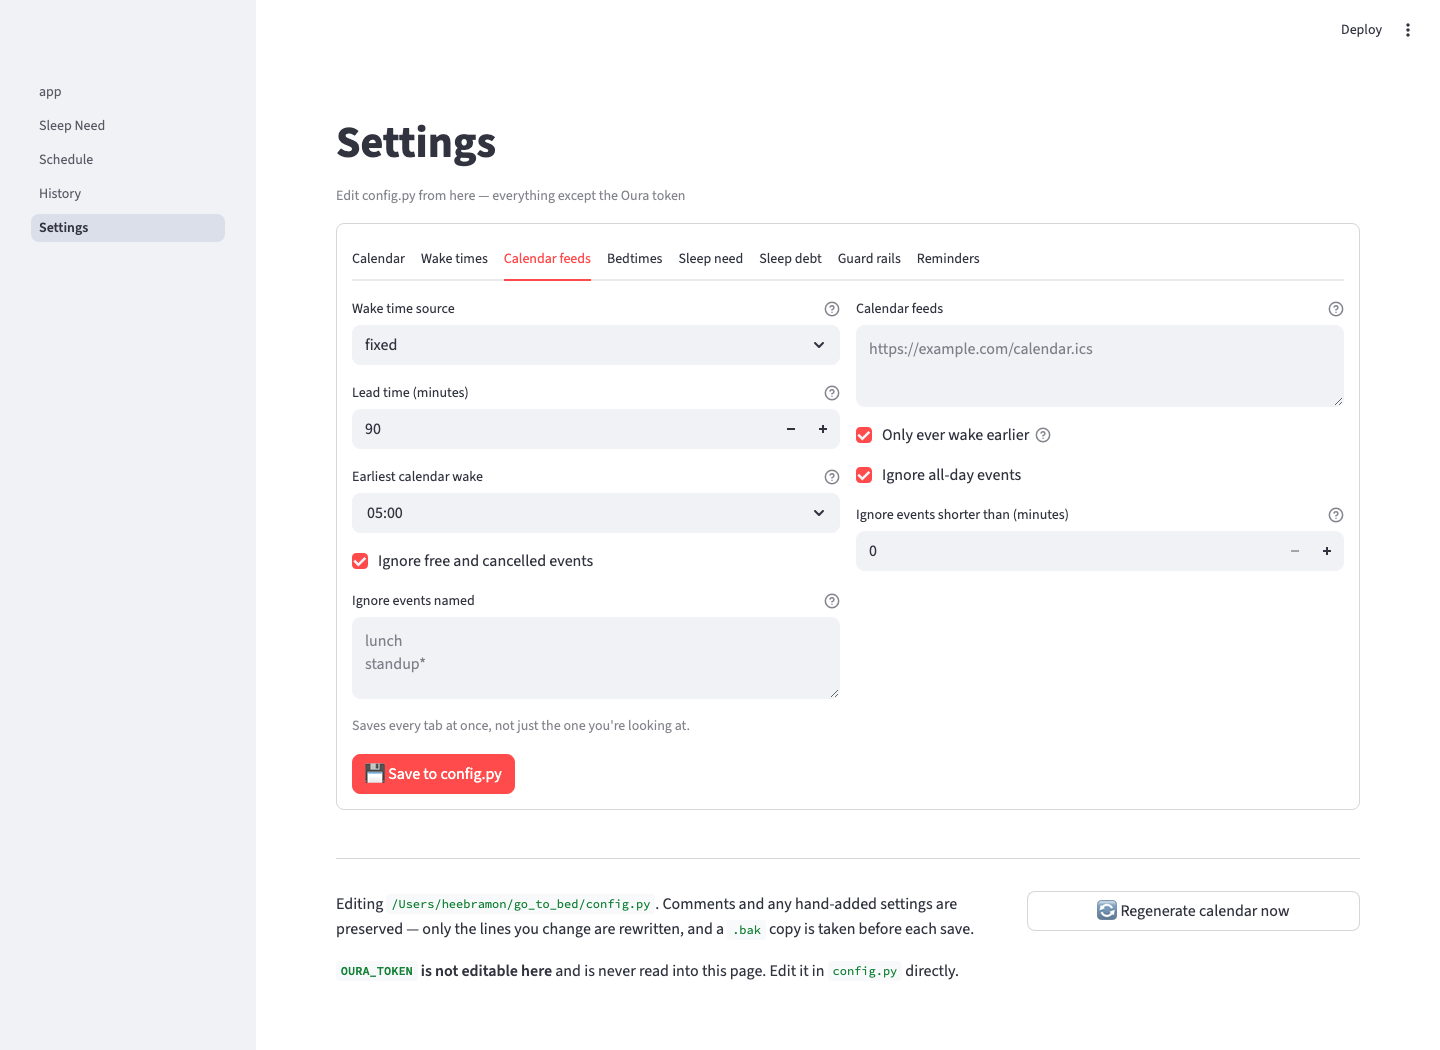
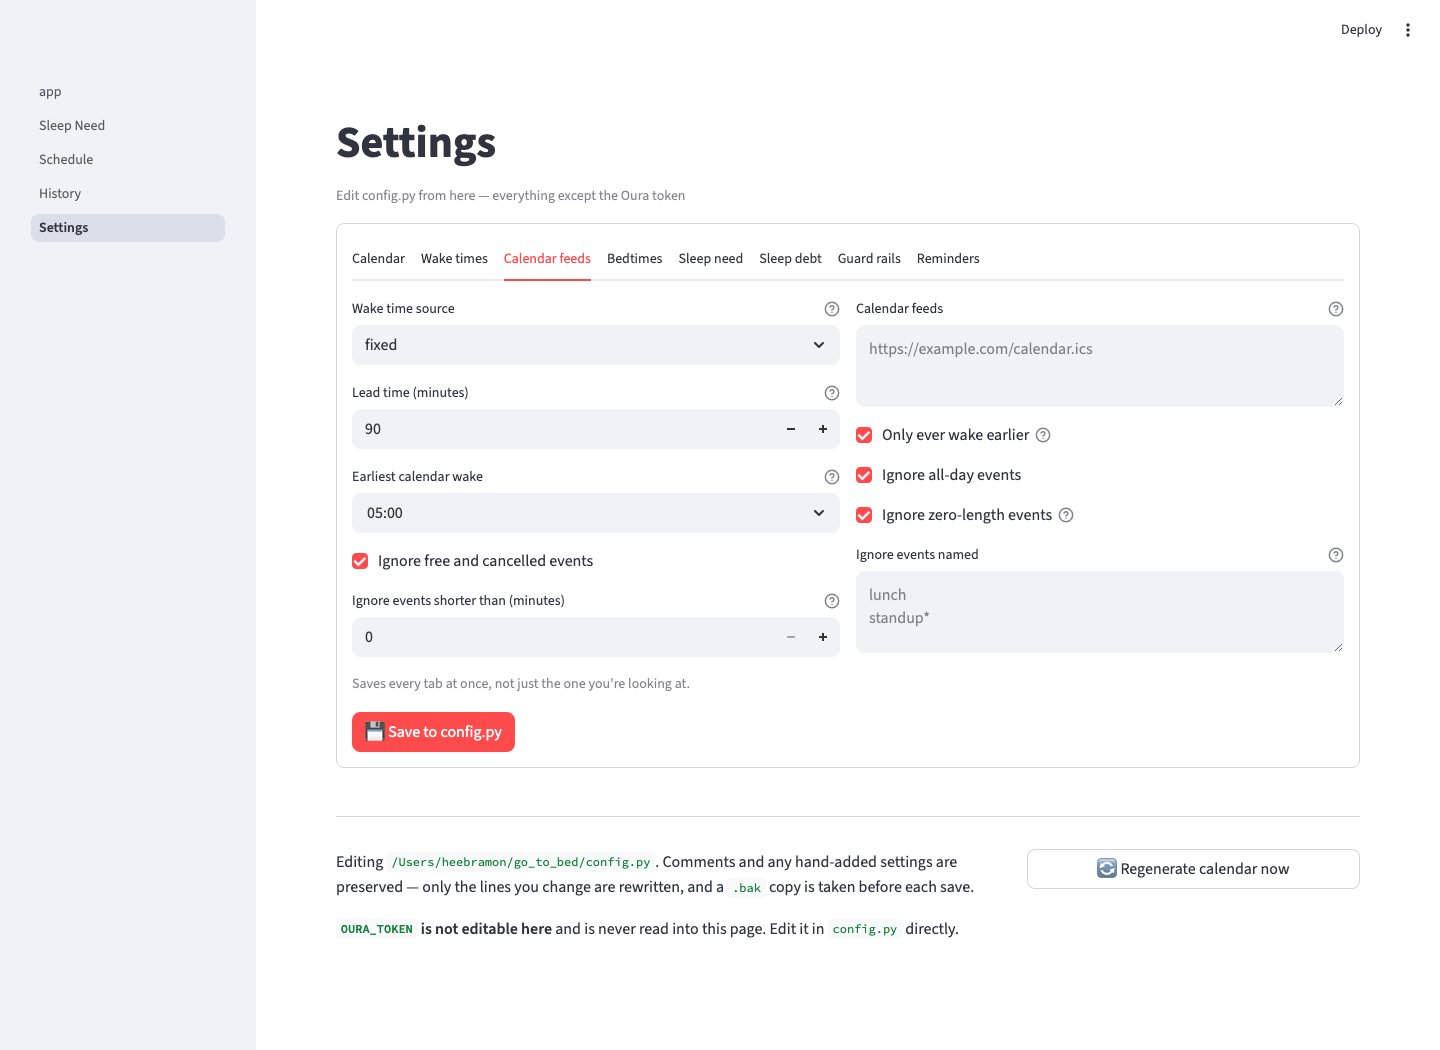
feat: ignore zero-length calendar events
CALENDAR_SKIP_ZERO_LENGTH, on by default, drops the point-in-time entries
a calendar accumulates — 'pay rent', 'renew pass' — which are never a
reason to get up early.

This corrects how a timed event with neither DTEND nor DURATION was read.
It was treated as being of unknown length and therefore always kept, but
RFC 5545 3.6.1 says such an event ends at its start, so it is zero-length
and now filtered like any other. None is reserved for lengths that
genuinely cannot be determined — a malformed event pairing a timestamp
with a date — and those are still kept, since dropping what cannot be
measured risks oversleeping.

Kept separate from CALENDAR_MIN_EVENT_MINUTES so that setting can stay at
0 meaning 'no minimum' while instantaneous entries are still ignored.

diff --git a/wake/calendar.py b/wake/calendar.py
@@ -68,9 +68,14 @@ def _is_busy(component) -> bool:
 def _duration_minutes(component) -> Optional[float]:
     """Length of an event in minutes, or None when it can't be determined.
 
-    Returning None rather than guessing matters: an event whose length is
-    unknown is kept, because wrongly dropping a real early meeting means
-    oversleeping, while wrongly keeping one only means a needlessly early night.
+    A timed event with neither DTEND nor DURATION is zero-length, not unknown:
+    RFC 5545 §3.6.1 says it "ends on the same calendar date and time of day"
+    as its start. Those are the point-in-time reminders a calendar collects.
+
+    None is reserved for genuinely undeterminable cases — a malformed pairing
+    of a date with a timestamp. Those are kept, because wrongly dropping a real
+    early meeting means oversleeping, while wrongly keeping one only means a
+    needlessly early night.
     """
     duration = component.get("duration")
     if duration is not None:
@@ -79,12 +84,15 @@ def _duration_minutes(component) -> Optional[float]:
         except AttributeError:
             return None
 
+    start = component.get("dtstart")
     end = component.get("dtend")
+
     if end is None:
-        return None
+        # All-day events without DTEND span the day; timed ones are a point.
+        return None if (start is None or not isinstance(start.dt, datetime)) else 0.0
 
     try:
-        return (end.dt - component.get("dtstart").dt).total_seconds() / 60
+        return (end.dt - start.dt).total_seconds() / 60
     except (TypeError, AttributeError):
         # A DTSTART date paired with a DTEND timestamp, or vice versa.
         return None
@@ -176,6 +184,7 @@ class CalendarWakeSchedule(WakeSchedule):
         earliest_wake: Optional[str] = "05:00",
         skip_all_day: bool = True,
         skip_free: bool = True,
+        skip_zero_length: bool = True,
         min_event_minutes: int = 0,
         ignore_summaries: Optional[List[str]] = None,
         horizon_days: int = DEFAULT_HORIZON_DAYS,
@@ -188,6 +197,7 @@ class CalendarWakeSchedule(WakeSchedule):
         self.floor = parse_optional_time(earliest_wake, "CALENDAR_EARLIEST_WAKE")
         self.skip_all_day = skip_all_day
         self.skip_free = skip_free
+        self.skip_zero_length = skip_zero_length
         self.min_event_minutes = max(0, int(min_event_minutes or 0))
         self.ignore_summaries = [str(p) for p in (ignore_summaries or [])
                                  if str(p).strip()]
@@ -215,6 +225,7 @@ class CalendarWakeSchedule(WakeSchedule):
         loaded = 0
         skipped_by_name = 0
         skipped_by_length = 0
+        skipped_zero = 0
 
         for source in self.sources:
             text = _load_source(source)
@@ -237,12 +248,16 @@ class CalendarWakeSchedule(WakeSchedule):
                 if _matches_any(component.get("summary"), self.ignore_summaries):
                     skipped_by_name += 1
                     continue
-                if self.min_event_minutes:
+                if self.skip_zero_length or self.min_event_minutes:
                     length = _duration_minutes(component)
-                    # Unknown length is kept: see _duration_minutes.
-                    if length is not None and length < self.min_event_minutes:
-                        skipped_by_length += 1
-                        continue
+                    # Undeterminable length is kept: see _duration_minutes.
+                    if length is not None:
+                        if self.skip_zero_length and length <= 0:
+                            skipped_zero += 1
+                            continue
+                        if length < self.min_event_minutes:
+                            skipped_by_length += 1
+                            continue
 
                 start_value = component.get("dtstart").dt
                 horizon = (horizon_naive.replace(tzinfo=start_value.tzinfo)
@@ -261,6 +276,8 @@ class CalendarWakeSchedule(WakeSchedule):
         filtered = []
         if skipped_by_name:
             filtered.append(f"{skipped_by_name} by name")
+        if skipped_zero:
+            filtered.append(f"{skipped_zero} zero-length")
         if skipped_by_length:
             filtered.append(f"{skipped_by_length} shorter than "
                             f"{self.min_event_minutes}m")

diff --git a/tests/test_calendar_wake.py b/tests/test_calendar_wake.py
@@ -12,7 +12,7 @@ from zoneinfo import ZoneInfo
 sys.path.insert(0, os.path.dirname(os.path.dirname(os.path.abspath(__file__))))
 
 from wake import build_wake_schedule
-from wake.calendar import CalendarWakeSchedule, _matches_any
+from wake.calendar import CalendarWakeSchedule, _duration_minutes, _matches_any
 from wake.fixed import FixedWakeSchedule
 
 TZ = ZoneInfo("Europe/Zurich")
@@ -22,6 +22,7 @@ FIXTURE = os.path.join(os.path.dirname(os.path.abspath(__file__)),
 
 def _schedule(**kwargs):
     defaults = dict(
+        skip_zero_length=False,
         sources=[FIXTURE],
         fallback=FixedWakeSchedule("07:00", "09:00", "09:00", tz=TZ),
         lead_minutes=90,
@@ -114,6 +115,9 @@ def test_a_lead_longer_than_the_day_is_held_at_midnight():
 
 def _short_day(**kwargs):
     # Lead of 30m and a 09:00 fallback so the filters' effect is visible.
+    # Zero-length skipping defaults on, so it is off here unless a test asks
+    # for it — otherwise it would mask the filter under test.
+    kwargs.setdefault("skip_zero_length", False)
     return _schedule(lead_minutes=30, earliest_wake=None,
                      fallback=FixedWakeSchedule("09:00", "09:00", "09:00", tz=TZ),
                      **kwargs)
@@ -131,11 +135,39 @@ def test_min_event_minutes_zero_disables_the_filter():
             .wake_time_for(date(2026, 9, 23)).time() == time(6, 30))
 
 
-def test_events_of_unknown_length_are_kept():
-    # 25 Sep has a 06:30 event with no DTEND. Dropping what we cannot measure
-    # would risk oversleeping, so it still counts.
-    assert (_short_day(min_event_minutes=60)
+def test_zero_length_events_can_be_ignored():
+    # 26 Sep: a 05:30 reminder with DTEND == DTSTART, then a real 10:00 meeting.
+    assert (_short_day(skip_zero_length=False)
+            .wake_time_for(date(2026, 9, 26)).time() == time(5, 0))
+    assert (_short_day(skip_zero_length=True)
+            .wake_time_for(date(2026, 9, 26)).time() == time(9, 0))
+
+
+def test_a_timed_event_without_an_end_is_zero_length():
+    # RFC 5545: DTSTART with no DTEND and no DURATION ends at its start, so
+    # 25 Sep's 06:30 entry is a point in time, not an event of unknown length.
+    assert (_short_day(skip_zero_length=False)
             .wake_time_for(date(2026, 9, 25)).time() == time(6, 0))
+    assert (_short_day(skip_zero_length=True)
+            .wake_time_for(date(2026, 9, 25)).time() == time(9, 0))
+
+
+def test_events_of_undeterminable_length_are_kept():
+    # 27 Sep pairs a timestamp start with a date end, so the length genuinely
+    # cannot be worked out. Dropping what can't be measured risks oversleeping.
+    plan = _short_day(skip_zero_length=True, min_event_minutes=60)
+    assert plan.wake_time_for(date(2026, 9, 27)).time() == time(6, 0)
+
+
+def test_duration_is_read_from_every_shape_of_event():
+    from icalendar import Calendar
+    calendar = Calendar.from_ical(open(FIXTURE, "rb").read())
+    lengths = {str(e.get("uid")): _duration_minutes(e)
+               for e in calendar.walk("VEVENT")}
+    assert lengths["standup@test"] == 15          # DTSTART + DTEND
+    assert lengths["explicitzero@test"] == 0      # DTEND == DTSTART
+    assert lengths["nodur@test"] == 0             # timed, no DTEND
+    assert lengths["malformed@test"] is None      # undeterminable
 
 
 def test_events_can_be_ignored_by_name():

diff --git a/config_store.py b/config_store.py
@@ -81,6 +81,11 @@ SETTINGS: List[Field] = [
           section="Calendar feeds", default=True),
     Field("CALENDAR_SKIP_FREE", "Ignore free and cancelled events", "bool",
           section="Calendar feeds", default=True),
+    Field("CALENDAR_SKIP_ZERO_LENGTH", "Ignore zero-length events", "bool",
+          section="Calendar feeds",
+          help="Point-in-time reminders. A timed event with no end time counts "
+               "as zero-length per the iCalendar spec.",
+          default=True),
     Field("CALENDAR_MIN_EVENT_MINUTES", "Ignore events shorter than (minutes)",
           "int", section="Calendar feeds",
           help="0 disables. Events whose length the feed doesn't state are kept.",

diff --git a/wake/__init__.py b/wake/__init__.py
@@ -44,6 +44,7 @@ def _calendar(cfg, tz) -> WakeSchedule:
         earliest_wake=getattr(cfg, "CALENDAR_EARLIEST_WAKE", "05:00"),
         skip_all_day=getattr(cfg, "CALENDAR_SKIP_ALL_DAY", True),
         skip_free=getattr(cfg, "CALENDAR_SKIP_FREE", True),
+        skip_zero_length=getattr(cfg, "CALENDAR_SKIP_ZERO_LENGTH", True),
         min_event_minutes=getattr(cfg, "CALENDAR_MIN_EVENT_MINUTES", 0),
         ignore_summaries=getattr(cfg, "CALENDAR_IGNORE_SUMMARIES", []),
         tz=tz,

diff --git a/README.md b/README.md
@@ -133,6 +133,7 @@ What it deliberately ignores:
 | `TRANSP:TRANSPARENT` | Marked free, so not a commitment |
 | `STATUS:CANCELLED` | It isn't happening |
 | Anything before `CALENDAR_EARLIEST_WAKE` | A stray 03:00 entry shouldn't demand a 01:30 start |
+| Zero-length events (`CALENDAR_SKIP_ZERO_LENGTH`) | Point-in-time reminders like "pay rent" |
 | Events shorter than `CALENDAR_MIN_EVENT_MINUTES` | A 15-minute standup rarely justifies an early night |
 | Titles matching `CALENDAR_IGNORE_SUMMARIES` | The recurring entries you don't actually attend |
 
@@ -154,6 +155,12 @@ pattern containing `*` or `?` is matched against the whole title, so
 `"*standup*"` for that). An event whose length the feed doesn't state is always
 kept — dropping what can't be measured risks oversleeping, while keeping it only
 risks a needlessly early night.
+
+A timed event with neither `DTEND` nor `DURATION` is **zero-length**, not
+unknown: RFC 5545 says it ends at its start. Those are the point-in-time
+reminders calendars accumulate, and `CALENDAR_SKIP_ZERO_LENGTH` (on by default)
+drops them. Genuinely undeterminable lengths — a malformed event pairing a
+timestamp with a date — are the ones that get kept.
 
 Recurring events are expanded (`RRULE`), including `EXDATE` cancellations, so a
 weekly lecture sets the alarm every week rather than only on its first date.
